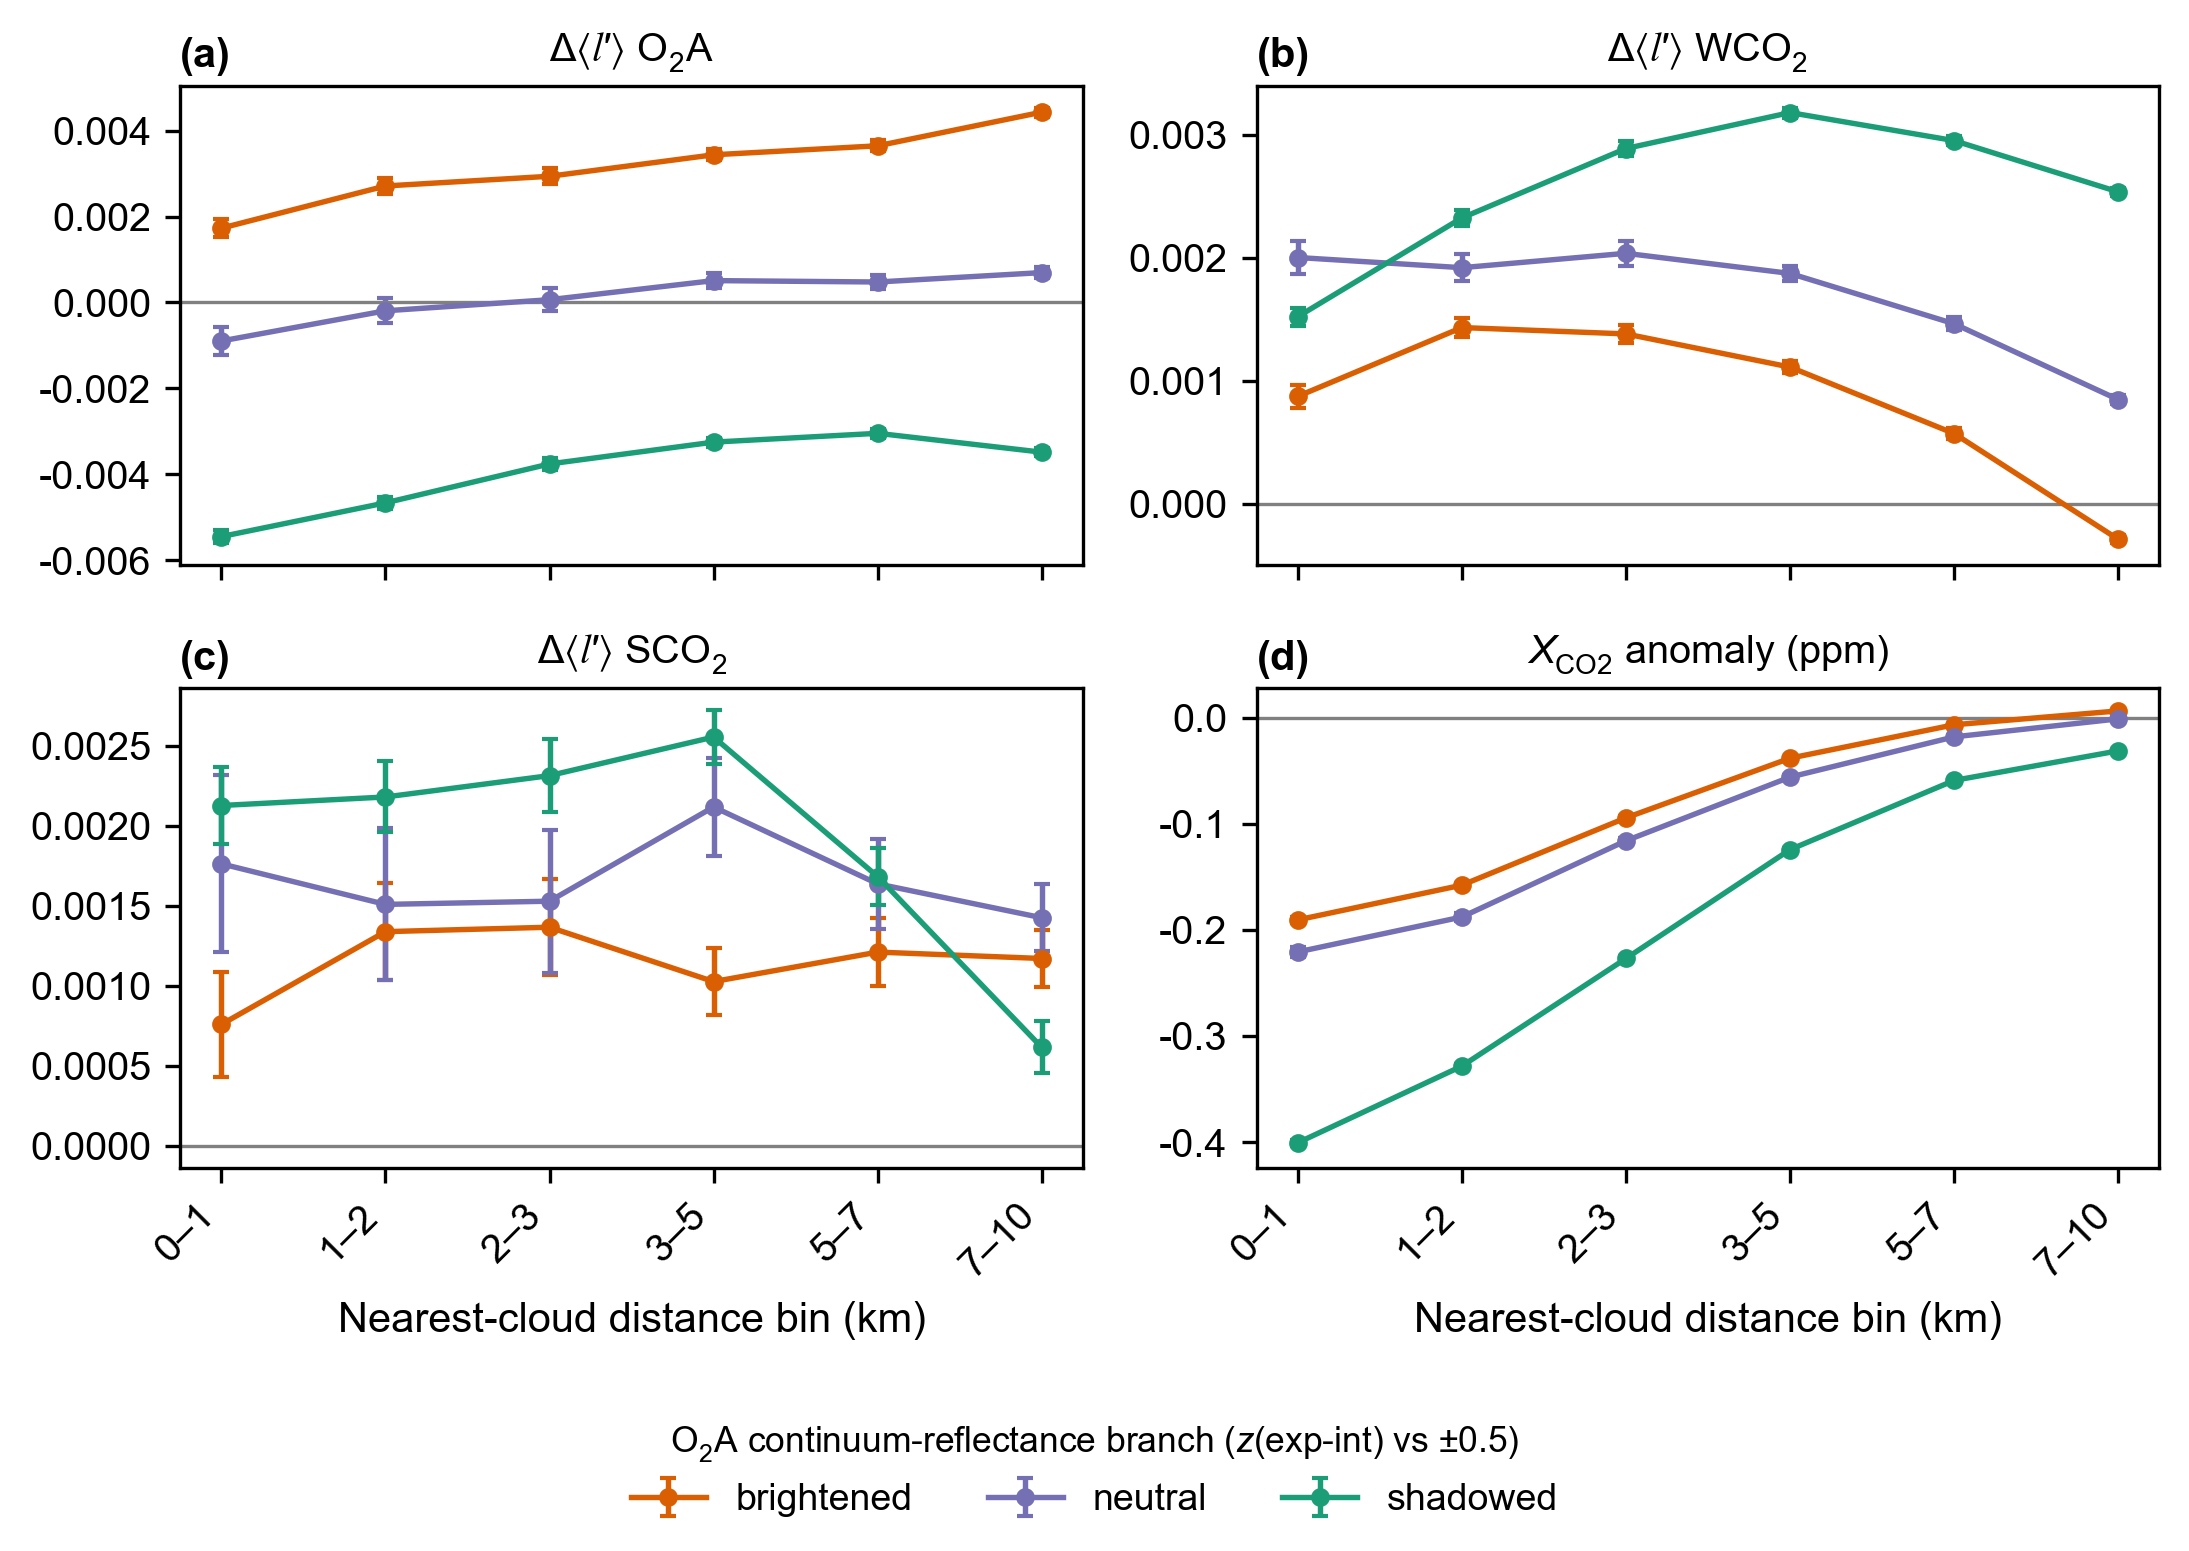
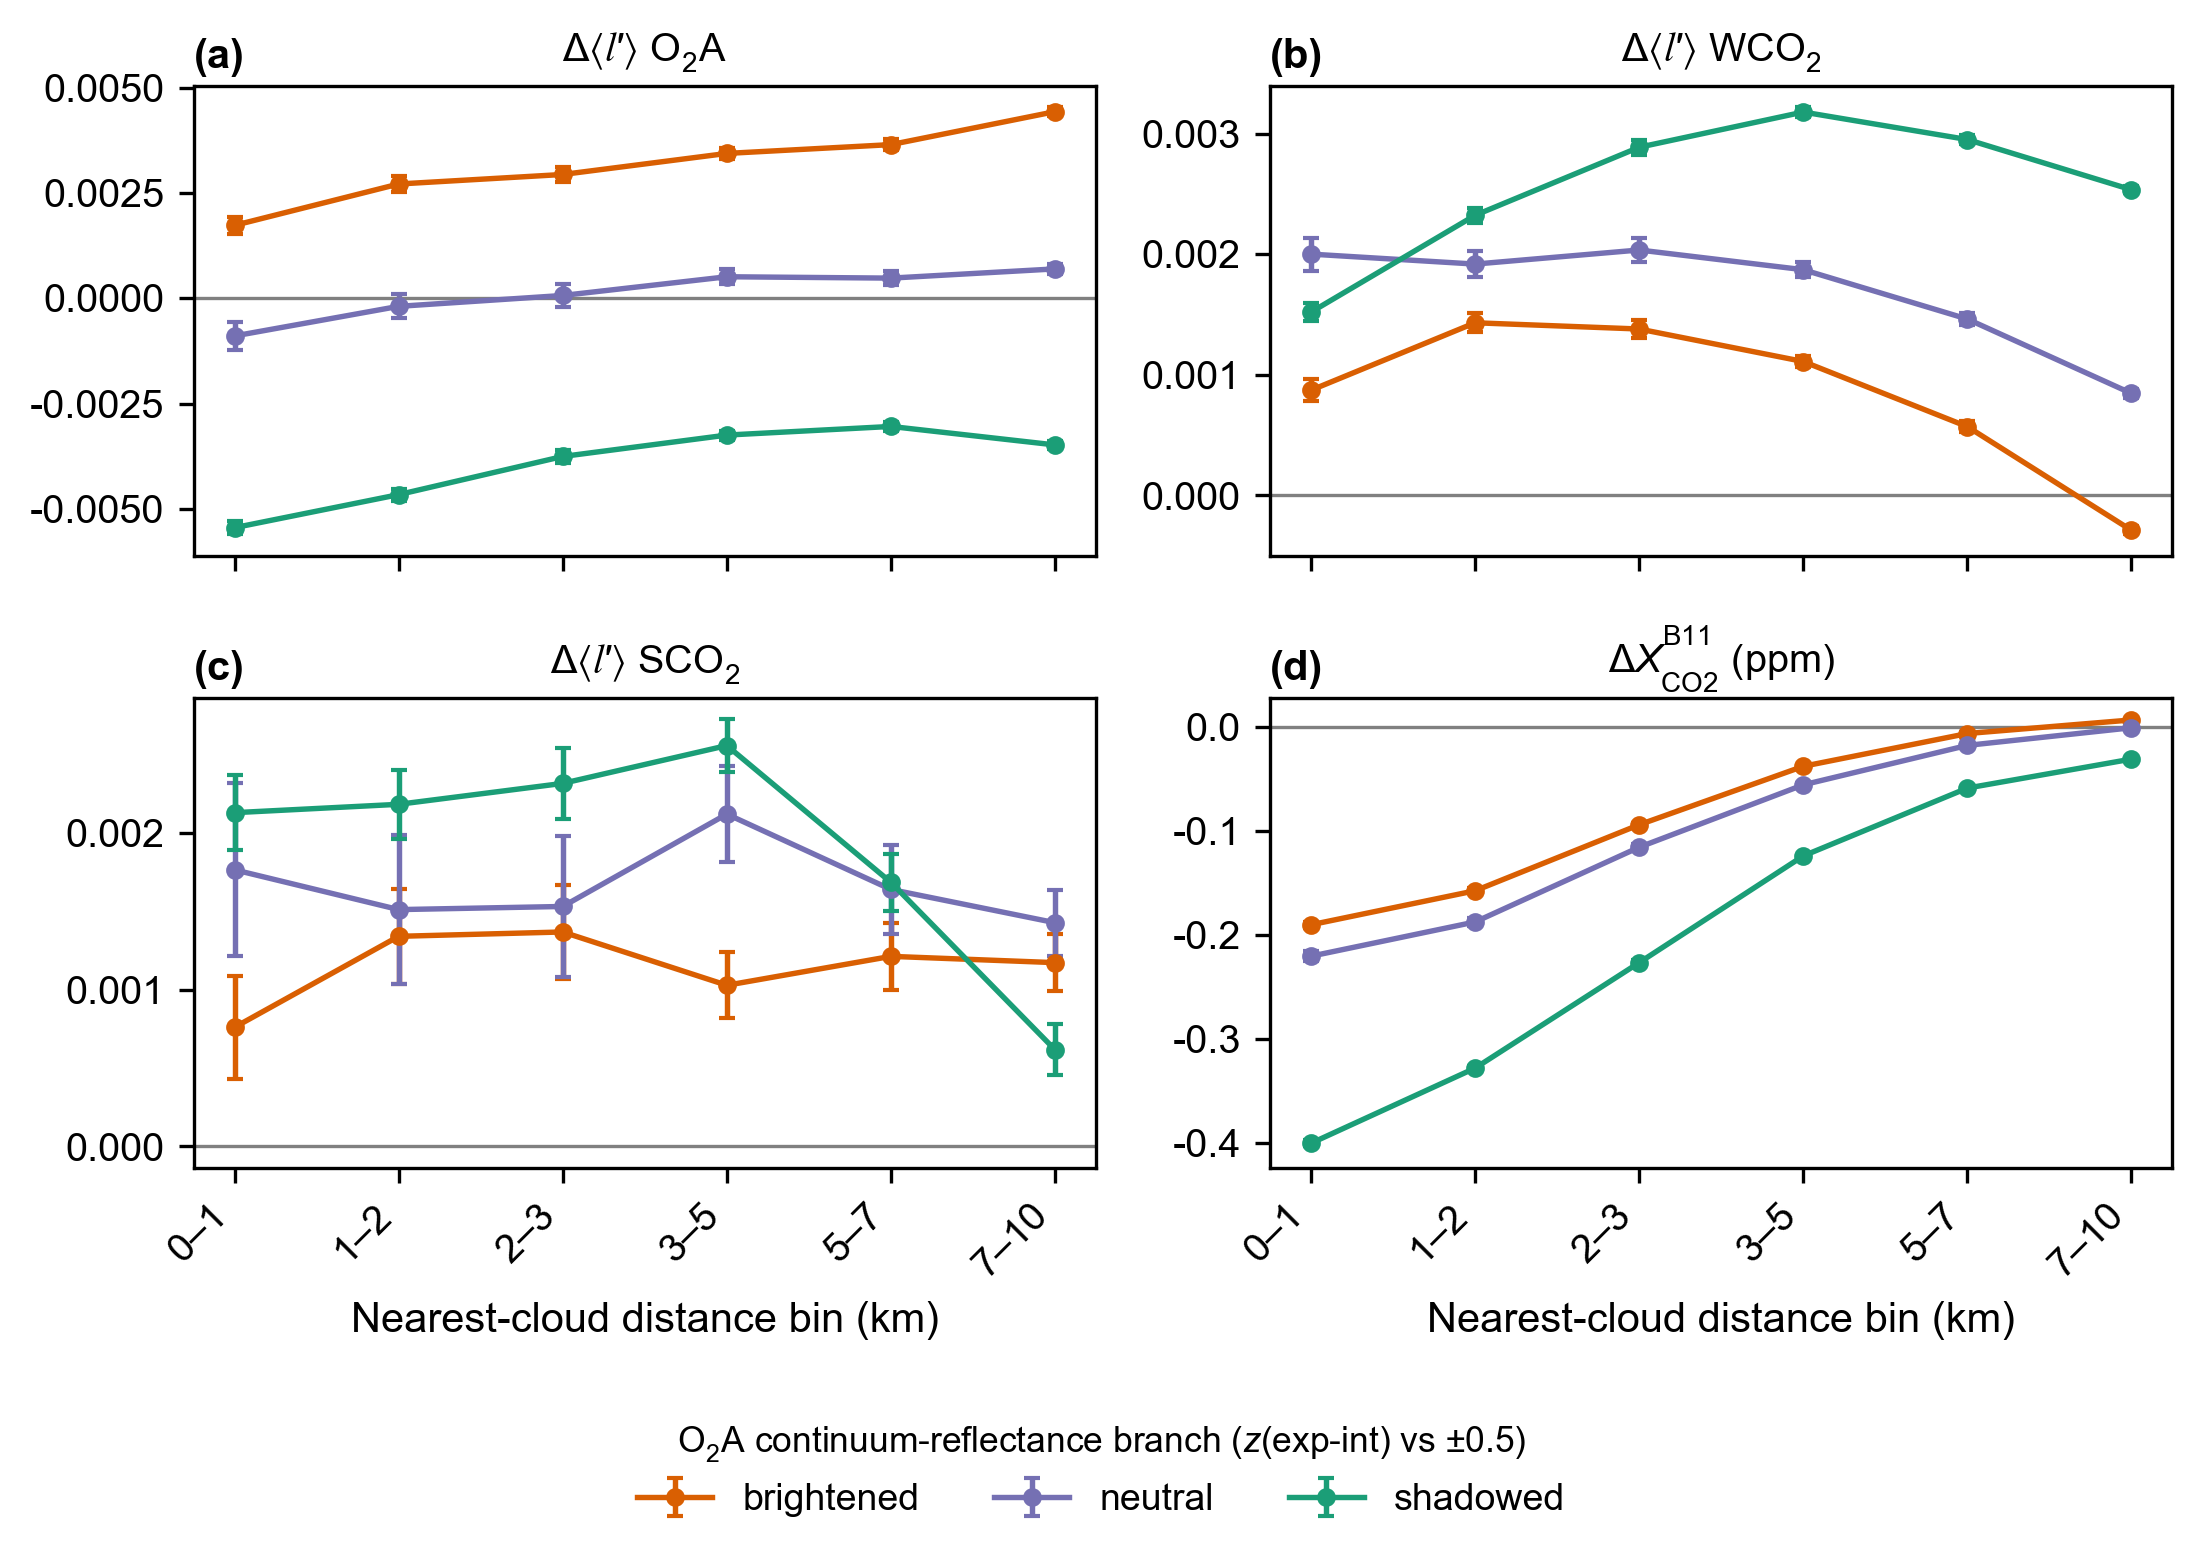
Fig 5 panel (d) label -> \Delta X_CO2^B11 (ppm)

diff --git a/manuscript/scripts/make_shadow_brightening_figure.py b/manuscript/scripts/make_shadow_brightening_figure.py
@@ -33,8 +33,7 @@ import matplotlib
 matplotlib.use("Agg")
 import matplotlib.pyplot as plt
 
-from plot_style import (MEAN_L_LABEL, XCO2_LABEL, apply_manuscript_style,
-                        panel_label)
+from plot_style import MEAN_L_LABEL, apply_manuscript_style, panel_label
 
 CSV = (REPO / "results" / "figures" / "cld_dist_analysis"
        / "spec_sensitivity" / "shadow_brightening_stats.csv")
@@ -48,7 +47,8 @@ BRANCHES = [("brightened", "#d95f02"),
 PANELS = [("dk1_o2a", f"$\\Delta${MEAN_L_LABEL} O$_2$A"),
           ("dk1_wco2", f"$\\Delta${MEAN_L_LABEL} WCO$_2$"),
           ("dk1_sco2", f"$\\Delta${MEAN_L_LABEL} SCO$_2$"),
-          ("xco2_bc_anomaly", f"{XCO2_LABEL} anomaly (ppm)")]
+          ("xco2_bc_anomaly",
+           "$\\Delta X_{\\mathrm{CO2}}^{\\mathrm{B11}}$ (ppm)")]
 
 
 def main() -> None:

diff --git a/log/MANUSCRIPT_FLOW_PLAN.md b/log/MANUSCRIPT_FLOW_PLAN.md
@@ -158,7 +158,9 @@ artifacts.
 `shadow_brightening_stats.csv` (new `make_shadow_brightening_figure.py`;
 legend moved below the panels — it covered the O2A curves — and the
 pre-restyle/full-parquet caveat is cleared); ocean companion written to
-`internal_shadow_brightening_ocean`.  
+`internal_shadow_brightening_ocean`. Panel (d) label uses
+$\Delta X_{\mathrm{CO2}}^{\mathrm{B11}}$ (user request — matches the
+supplement.tex \xcobc macro family).  
 **Target journal:** *Atmospheric Measurement Techniques* (AMT)  
 **Purpose:** Convert the project evidence ledger into a conventional,
 reviewer-readable manuscript flow. This document governs narrative order; the